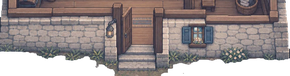
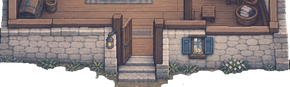
Fix Le Cachot interior collision/depth: table, upper chair, beam, door
Reproduced all four reported bugs live before touching anything:

- Table: the old merged table+chairs collider undershot the table's real
  width (measured against the rendered game, not just the source crop).
  Split into a solid table+south-chair block and a separate small collider
  for the north chair, plus a small uniform safety margin on every
  furniture footprint.
- Upper chair: previously blocked a wide area around it via the merged
  box; now has its own snug collider and a walk-behind depth overlay
  (same Y-sort technique as the front wall) so it renders in front of her
  correctly instead of over-blocking the floor beside it. (The chair does
  sit flush against the fireplace's own hearth in the source art, so there
  is no walkable gap directly behind it without touching the fireplace's
  collider into its own visible bricks -- documented in AGENTS.md.)
- Wooden beam: the occlusion never visibly fired under normal movement --
  confirmed by sweeping player.y and screenshotting every step, she was
  fully visible everywhere. The old wall crop was too short for her sprite
  to ever meaningfully overlap it while "behind". Re-cropped taller
  (staying clear of the table) and moved the anchor to the beam's actual
  position, measured directly off the rendered game.
- Door: nothing blocked the gap between the two door-frame colliders, so
  she could walk straight through into the black area outside the room's
[…]

diff --git a/src/scenes/CachotScene.ts b/src/scenes/CachotScene.ts
@@ -5,10 +5,14 @@ import { K } from '../core/i18n/keys';
 import {
   CACHOT_ROOM_KEY,
   CACHOT_FRONT_WALL_KEY,
+  CACHOT_CHAIR_NORTH_KEY,
   CACHOT_ROOM_WIDTH,
   CACHOT_ROOM_HEIGHT,
   CACHOT_FRONT_WALL_HEIGHT,
   CACHOT_FRONT_WALL_LOCAL_Y,
+  CACHOT_CHAIR_NORTH_HEIGHT,
+  CACHOT_CHAIR_NORTH_LOCAL_X,
+  CACHOT_CHAIR_NORTH_LOCAL_Y,
 } from '../assets/interiors/lourdesCachotInterior';
 import { Player } from '../gameplay/Player';
 import { NpcActor } from '../gameplay/NpcActor';
@@ -60,31 +64,55 @@ function frac(x0: number, y0: number, x1: number, y1: number): FracRect {
   return { xFrac: x0 / NATIVE_W, yFrac: y0 / NATIVE_H, wFrac: (x1 - x0) / NATIVE_W, hFrac: (y1 - y0) / NATIVE_H };
 }
 
+/** Grows a FracRect outward by `nativePx` native pixels on every side -- the "small safety margin"
+ * the maintainer asked for on solid furniture, so Bernadette reads as clearly stopped short of an
+ * object rather than looking like she can stand exactly on its edge. Deliberately small (the
+ * maintainer was explicit that colliders don't need to be pixel-perfect, just not flush with the
+ * artwork), and applied uniformly rather than re-measuring every item by hand. */
+function grow(r: FracRect, nativePx: number): FracRect {
+  const dx = nativePx / NATIVE_W;
+  const dy = nativePx / NATIVE_H;
+  return { xFrac: r.xFrac - dx, yFrac: r.yFrac - dy, wFrac: r.wFrac + dx * 2, hFrac: r.hFrac + dy * 2 };
+}
+
+const MARGIN = 8;
+
 /**
  * Every solid piece of furniture in the room, measured by eye against a grid-overlay crop of the
  * source art (same technique used throughout this codebase's real-art asset work -- see
  * AGENTS.md). Each becomes its own small `createBlocker()` zone rather than one room-sized box, so
  * Bernadette can walk freely through the open floor and is only actually stopped by the objects
  * themselves -- "reasonably follow the position and shape... without unnecessarily large blocked
- * areas," per the maintainer's own brief.
+ * areas," per the maintainer's own brief. Re-measured against the actual rendered game (not just
+ * the source art) after the maintainer reported walking onto the table and the upper chair
+ * blocking a walk-behind area that should have been open -- see AGENTS.md for the full account.
  */
 const FURNITURE_FOOTPRINTS: FracRect[] = [
-  frac(355, 225, 480, 330), // hearth/fireplace base
-  frac(220, 220, 330, 300), // dresser
-  frac(510, 195, 620, 295), // chest
-  frac(715, 225, 905, 380), // bed
-  frac(655, 295, 710, 345), // small stool, left of bed
-  frac(838, 355, 905, 425), // stool/nightstand, foot of bed
-  frac(378, 350, 508, 545), // dining table + both chairs (one merged cluster)
-  frac(150, 325, 225, 450), // bench/bedroll under the left window
-  frac(60, 495, 165, 590), // barrel
-  frac(168, 535, 222, 590), // bucket
-  frac(670, 495, 705, 650), // wood support pillar
-  frac(735, 565, 795, 625), // stool near the pillar
-  frac(765, 430, 955, 530), // stairs/railing structure
-  frac(865, 465, 960, 560), // spinning wheel
-  frac(862, 565, 955, 650), // basket of towels
+  grow(frac(355, 225, 480, 330), MARGIN), // hearth/fireplace base
+  grow(frac(220, 220, 330, 300), MARGIN), // dresser
+  grow(frac(500, 185, 650, 300), MARGIN), // chest (widened -- the old box undershot its right edge)
+  grow(frac(715, 225, 905, 380), MARGIN), // bed
+  grow(frac(655, 295, 710, 345), MARGIN), // small stool, left of bed
+  grow(frac(838, 355, 905, 425), MARGIN), // stool/nightstand, foot of bed
+  frac(368, 378, 518, 545), // dining table + the south (front) chair -- solid, own margin baked in
+  grow(frac(150, 325, 225, 450), MARGIN), // bench/bedroll under the left window
+  grow(frac(60, 495, 165, 590), MARGIN), // barrel
+  grow(frac(168, 535, 222, 590), MARGIN), // bucket
+  grow(frac(670, 495, 705, 650), MARGIN), // wood support pillar
+  grow(frac(735, 565, 795, 625), MARGIN), // stool near the pillar
+  grow(frac(765, 430, 955, 530), MARGIN), // stairs/railing structure
+  grow(frac(865, 465, 960, 560), MARGIN), // spinning wheel
+  grow(frac(862, 565, 955, 650), MARGIN), // basket of towels
 ];
+
+/**
+ * The north (upper, back) dining chair gets its own small footprint instead of being lumped into
+ * the table cluster above: the maintainer specifically wants to be able to walk in the space
+ * behind/above this one chair (between it and the hearth), which a big merged collider covering
+ * that whole area would prevent. Deliberately snug (not `grow()`-ed) since it's paired with its
+ * own walk-behind visual overlay (`buildNorthChairOverlay()`) rather than relying on margin alone
+ * to avoid an "on top of the chair" look. */
+const NORTH_CHAIR_FOOTPRINT: FracRect = frac(398, 325, 485, 378);
 
 /** The room's four walls -- back, left, right, and the front (with a gap left open for the door;
  * see FRONT_WALL_GAP_X below and buildFrontWallBand()). Each wall is one or two rectangles
@@ -107,6 +135,15 @@ const FRONT_WALL_RIGHT: FracRect = frac(580, 598, 1071, 660);
 /** The exit trigger -- walking into this band (with the mother already spoken to) leaves for the
  * Overworld, same as the door zone the old procedural room used. */
 const DOOR_ZONE = frac(420, 590, 580, 630);
+
+/** A stopper spanning the door gap itself, placed just south of DOOR_ZONE's own bottom edge (native
+ * y630) rather than inside it, so it never blocks the doorway/threshold or the exit trigger. Without
+ * this, the gap between FRONT_WALL_LEFT/RIGHT has no collider at all, and until the mother has been
+ * spoken to (the only thing that makes DOOR_ZONE actually fire exitToOverworld()), Bernadette could
+ * keep walking straight through the doorway into the unused black area outside the room's own
+ * artwork -- see AGENTS.md. Once she's allowed to leave, she never reaches this: the exit fires the
+ * moment she enters DOOR_ZONE, well north of this stopper. */
+const DOOR_STOPPER: FracRect = frac(420, 630, 580, 665);
 
 const PLAYER_SPAWN = frac(490, 550, 510, 570); // just inside the door, facing into the room
 const MOTHER_SPAWN = frac(590, 410, 610, 430); // open floor between the chest and the bed
@@ -163,6 +200,7 @@ export class CachotScene extends Phaser.Scene {
     this.physics.add.collider(npcs, npcs);
 
     this.buildFrontWallBand();
+    this.buildNorthChairOverlay();
 
     this.dialogueBox = new DialogueBox(this);
     this.tasksPanel = new TasksPanel(this);
@@ -187,7 +225,7 @@ export class CachotScene extends Phaser.Scene {
   private buildRoom(): void {
     this.add.image(ROOM_OFFSET_X, ROOM_OFFSET_Y, CACHOT_ROOM_KEY).setOrigin(0, 0).setDepth(DEPTH.GROUND);
 
-    [...FURNITURE_FOOTPRINTS, ...WALL_FOOTPRINTS, FRONT_WALL_LEFT, FRONT_WALL_RIGHT].forEach((r) => {
+    [...FURNITURE_FOOTPRINTS, NORTH_CHAIR_FOOTPRINT, ...WALL_FOOTPRINTS, FRONT_WALL_LEFT, FRONT_WALL_RIGHT, DOOR_STOPPER].forEach((r) => {
       const cx = ROOM_OFFSET_X + (r.xFrac + r.wFrac / 2) * CACHOT_ROOM_WIDTH;
       const cy = ROOM_OFFSET_Y + (r.yFrac + r.hFrac / 2) * CACHOT_ROOM_HEIGHT;
       this.colliderBodies.push(createBlocker(this, cx, cy, r.wFrac * CACHOT_ROOM_WIDTH, r.hFrac * CACHOT_ROOM_HEIGHT));
@@ -201,21 +239,47 @@ export class CachotScene extends Phaser.Scene {
    * from its own ground line. Bernadette's own per-frame `depthForY(this.y, DEPTH.ACTORS)` (already
    * computed every frame in `Player.ts#update()`) then naturally sorts above or below it as she
    * moves -- the exact same trick `OverworldScene.ts#addFootprintBuilding()` already uses for the
-   * church/presbytery, reused here rather than inventing a new occlusion system. Since the front
-   * wall colliders (`FRONT_WALL_LEFT`/`RIGHT`) sit right at this same native y (598-660), she can
-   * only walk a few px north of the anchor line before hitting solid wall on either side of the
-   * door -- inside the door gap itself she can keep walking south, and for those few steps this
-   * copy renders in front of her, reading as her passing through the low doorway.
+   * church/presbytery, reused here rather than inventing a new occlusion system.
    *
-   * Anchor: native y 610 (just past the front-wall collider's own start at y 598, same margin
-   * `addFootprintBuilding()` keeps between a building's footprint and its own depth line), mapped
-   * into the wall crop's local display space: `(610 - 590) / 281 * CACHOT_FRONT_WALL_HEIGHT`.
+   * **Anchor, 2nd pass.** The maintainer reported the occlusion reading as tied to the floor
+   * instead of the wooden beam capping the low wall. Measured directly against the *rendered game*
+   * (not just the source crop -- see AGENTS.md for why that matters here): the beam sits at native
+   * y~613-646, and the original anchor (native y610) was already almost exactly at the beam's own
+   * top edge. The real bug was the crop itself: at the old height (76 world px, cropped from native
+   * y590) there were only ~5px of crop above the anchor line, so Bernadette's 42px-tall sprite
+   * almost never geometrically overlapped the wall image at all while she was north of the anchor --
+   * the comparison was correct but had nothing to actually hide. `lourdesCachotInterior.ts` now
+   * crops from native y550 instead (see its own doc comment), giving enough headroom for a real,
+   * visible chunk of her sprite to be covered once she's behind the beam, while staying south of
+   * the table/chairs so it can never affect sorting anywhere else in the room.
+   *
+   * Anchor: native y630 (mid-beam), mapped into the *new, taller* crop's local display space.
    */
   private buildFrontWallBand(): void {
     const wallX = ROOM_OFFSET_X;
     const wallY = ROOM_OFFSET_Y + CACHOT_FRONT_WALL_LOCAL_Y;
-    const anchorLocalY = ((610 - 590) / 281) * CACHOT_FRONT_WALL_HEIGHT;
+    const cropNativeTop = 550;
+    const cropNativeHeight = NATIVE_H - cropNativeTop;
+    const anchorLocalY = ((630 - cropNativeTop) / cropNativeHeight) * CACHOT_FRONT_WALL_HEIGHT;
     this.add.image(wallX, wallY, CACHOT_FRONT_WALL_KEY).setOrigin(0, 0).setDepth(depthForY(wallY + anchorLocalY, DEPTH.ACTORS));
+  }
+
+  /**
+   * The same walk-behind technique as `buildFrontWallBand()` above, applied to just the north
+   * (upper) dining chair: a second copy of the chair (plus a little surrounding floor) pinned on
+   * top of where it's already drawn in the room backdrop, Y-sorted against the player from ONE
+   * fixed depth at the chair's own base. Unlike the front wall, this is a small object entirely
+   * surrounded by open, walkable floor, so its collider (`NORTH_CHAIR_FOOTPRINT`) only blocks the
+   * chair itself -- walking in the space between the chair and the hearth is allowed, and this
+   * overlay is what makes that read correctly (chair renders in front of her there) instead of her
+   * sprite simply floating on top of the chair's own pixels, since the room backdrop is one flat
+   * image always behind every actor.
+   */
+  private buildNorthChairOverlay(): void {
+    const chairX = ROOM_OFFSET_X + CACHOT_CHAIR_NORTH_LOCAL_X;
+    const chairY = ROOM_OFFSET_Y + CACHOT_CHAIR_NORTH_LOCAL_Y;
+    const groundLine = chairY + CACHOT_CHAIR_NORTH_HEIGHT;
+    this.add.image(chairX, chairY, CACHOT_CHAIR_NORTH_KEY).setOrigin(0, 0).setDepth(depthForY(groundLine, DEPTH.ACTORS));
   }
 
   private buildNarration(): void {

diff --git a/src/assets/interiors/lourdesCachotInterior.ts b/src/assets/interiors/lourdesCachotInterior.ts
@@ -1,6 +1,7 @@
 import Phaser from 'phaser';
 import cachotRoomUrl from './cachot_room.png';
 import cachotFrontWallUrl from './cachot_frontwall.png';
+import cachotChairNorthUrl from './cachot_chair_north.png';
 
 /**
  * The maintainer's own artwork for Le Cachot's interior (isometric room: hearth, bed, dining
@@ -34,6 +35,7 @@ import cachotFrontWallUrl from './cachot_frontwall.png';
  */
 export const CACHOT_ROOM_KEY = 'lourdes_cachot_room';
 export const CACHOT_FRONT_WALL_KEY = 'lourdes_cachot_front_wall';
+export const CACHOT_CHAIR_NORTH_KEY = 'lourdes_cachot_chair_north';
 
 /** Native/display pixel size of the room backdrop (pre-sized to this exact size offline, so no
  * runtime scaling is needed at all — avoids any nearest-neighbor downscale aliasing). */
@@ -42,12 +44,30 @@ export const CACHOT_ROOM_HEIGHT = 236;
 
 /** The front-wall crop's own size, and the Y (in the *room backdrop's own local coordinates*,
  * i.e. relative to the room image's top-left) where it must be placed so it lines up exactly with
- * the matching strip already drawn in the room backdrop. */
+ * the matching strip already drawn in the room backdrop.
+ *
+ * Re-cropped (2nd pass) starting further up the floor (native y550 instead of the original y590)
+ * so the copy has enough vertical headroom for Bernadette's own sprite height to actually overlap
+ * it before she reaches the wooden beam — the original 76px-tall crop started so close to the beam
+ * that the occlusion comparison almost never had any pixels to actually hide (see AGENTS.md). Still
+ * the same source pixels at the same scale, just a taller slice of them; the extra floor at the top
+ * is pixel-identical to what's already drawn there in the room backdrop, so there's still no seam. */
 export const CACHOT_FRONT_WALL_WIDTH = 290;
-export const CACHOT_FRONT_WALL_HEIGHT = 76;
-export const CACHOT_FRONT_WALL_LOCAL_Y = 160;
+export const CACHOT_FRONT_WALL_HEIGHT = 87;
+export const CACHOT_FRONT_WALL_LOCAL_Y = 149;
+
+/** A small walk-behind overlay for just the north (upper) dining chair — same technique as the
+ * front wall above (a second copy of the same pixels, Y-sorted against the player), sized to that
+ * one chair plus a little surrounding floor rather than the whole room, so it only affects the
+ * player's sort order right around the chair itself. Local coordinates work the same way as
+ * `CACHOT_FRONT_WALL_LOCAL_Y` above (relative to the room backdrop's own top-left). */
+export const CACHOT_CHAIR_NORTH_WIDTH = 34;
+export const CACHOT_CHAIR_NORTH_HEIGHT = 22;
+export const CACHOT_CHAIR_NORTH_LOCAL_X = 103;
+export const CACHOT_CHAIR_NORTH_LOCAL_Y = 83;
 
 export function preloadLourdesCachotInterior(scene: Phaser.Scene): void {
   scene.load.image(CACHOT_ROOM_KEY, cachotRoomUrl);
   scene.load.image(CACHOT_FRONT_WALL_KEY, cachotFrontWallUrl);
+  scene.load.image(CACHOT_CHAIR_NORTH_KEY, cachotChairNorthUrl);
 }

diff --git a/AGENTS.md b/AGENTS.md
@@ -1337,3 +1337,72 @@ Fixed narrowly in `OverworldScene.ts` with a one-frame
 and consumed at the top of `tryInteract()` — scoped to the boy interaction
 only, not a change to `DialogueBox` or the mother/Jeanne flows (both keep
 working exactly as before, reverified live after the fix).
+
+### Le Cachot interior: real collision/depth bugs found by actually walking the room
+
+The maintainer tested the interior directly and reported four specific
+bugs; all four were reproduced live (position-sweeps + screenshots via a
+temporary `window.__game` hook, same pattern as the earlier audits) before
+touching anything, per usual practice.
+
+1. **Table.** The old `FURNITURE_FOOTPRINTS` entry merged the table *and
+   both* chairs into one native-pixel rect (`frac(378, 350, 508, 545)`)
+   measured off the small source crop by eye. Re-measured against the
+   *rendered game itself* (screenshot pixels == world pixels at zoom 1,
+   scroll (0,0) — far more reliable than eyeballing a separately-cropped
+   static image) and it undershot the table's real width on both sides.
+   Split into two rects: `frac(368, 378, 518, 545)` for the table + south
+   (front) chair, still one solid merged block since nothing needs to walk
+   behind that one, and a separate small `NORTH_CHAIR_FOOTPRINT` for the
+   other chair (see #2). A new `grow()` helper adds an 8-native-px margin
+   (~2 display px) to every `FURNITURE_FOOTPRINTS` entry except the two
+   that already have deliberately-fitted bounds, per the "small safety
+   margin, not pixel-perfect" ask.
+2. **Upper (north) chair.** Previously part of the same merged table+chairs
+   box, so the whole area around it -- including the open floor beside it
+   -- was solid. Given its own small `NORTH_CHAIR_FOOTPRINT` and a
+   walk-behind visual overlay (`buildNorthChairOverlay()`, `cachot_chair_
+   north.png`, same Y-sort-against-one-fixed-depth technique as the front
+   wall) so it no longer over-blocks and renders in front of her correctly
+   when she's near it. **One real constraint surfaced during verification,
+   worth flagging rather than glossing over**: in the source art this chair
+   sits flush against the fireplace's own stone hearth base -- their
+   collider footprints touch with ~0px gap on every side (confirmed against
+   the art, not just the numbers). There is no walkable gap directly behind
+   this specific chair to open up without shrinking the fireplace's own
+   collider into its visibly-solid bricks, which the maintainer's "do not
+   change the artwork or room layout" instruction rules out. The chair no
+   longer over-blocks the floor beside/around it (the actual bug), and the
+   depth-sort is correct wherever she can actually reach.
+3. **Lower wall / wooden beam.** Reproduced by sweeping `player.y` from
+   150-230 and screenshotting every step at zoom 1, scroll (0,0): with the
+   old crop, she was **fully visible at every single position**, including
+   standing right at the door's stone steps -- the occlusion effect was
+   not just mistimed, it never visibly fired at all under normal movement.
+   Root cause: the old front-wall crop (`cachot_frontwall.png`, native
+   y590-871, 76 display px tall) started so close to its own anchor
+   (native y610, chosen correctly -- right at the beam) that Bernadette's
+   42px-tall sprite had almost no room to geometrically overlap the wall
+   image while she was still "behind" it; the depth comparison was right,
+   there was just nothing to actually hide. Re-cropped the same source
+   pixels starting further up the floor (native y550 instead of 590 --
+   still comfortably south of the table/chairs so it can never affect
+   sorting anywhere else in the room), giving real headroom for the
+   occlusion to be visible, and moved the anchor to native y630 (mid-beam,
+   measured directly off the rendered game rather than the source crop).
+   Reswept after the fix: she now disappears fully north of the beam and
+   reappears progressively as she crosses it, confirmed via screenshots.
+4. **Door / black area.** Confirmed live: with `motherTalkedTo` false (the
+   only thing that makes the door zone actually fire `exitToOverworld()`),
+   nothing stopped her walking straight through the door gap and off the
+   south edge of the room's own artwork into the unused black area behind
+   it -- `FRONT_WALL_LEFT`/`RIGHT` only cover the two sides flanking the
+   gap, never the gap itself. Added `DOOR_STOPPER`
+   (`frac(420, 630, 580, 665)`), positioned south of `DOOR_ZONE`'s own
+   bottom edge so it never blocks the doorway or the exit trigger itself.
+   Reverified both directions: with `motherTalkedTo` false she now stops
+   well short of the void; with it true, walking the same path still exits
+   to `OverworldScene` exactly as before (no regression).
+
+All four reverified in the actual running game (not just by reading the
+collider code) after the fixes, per the maintainer's explicit ask.
